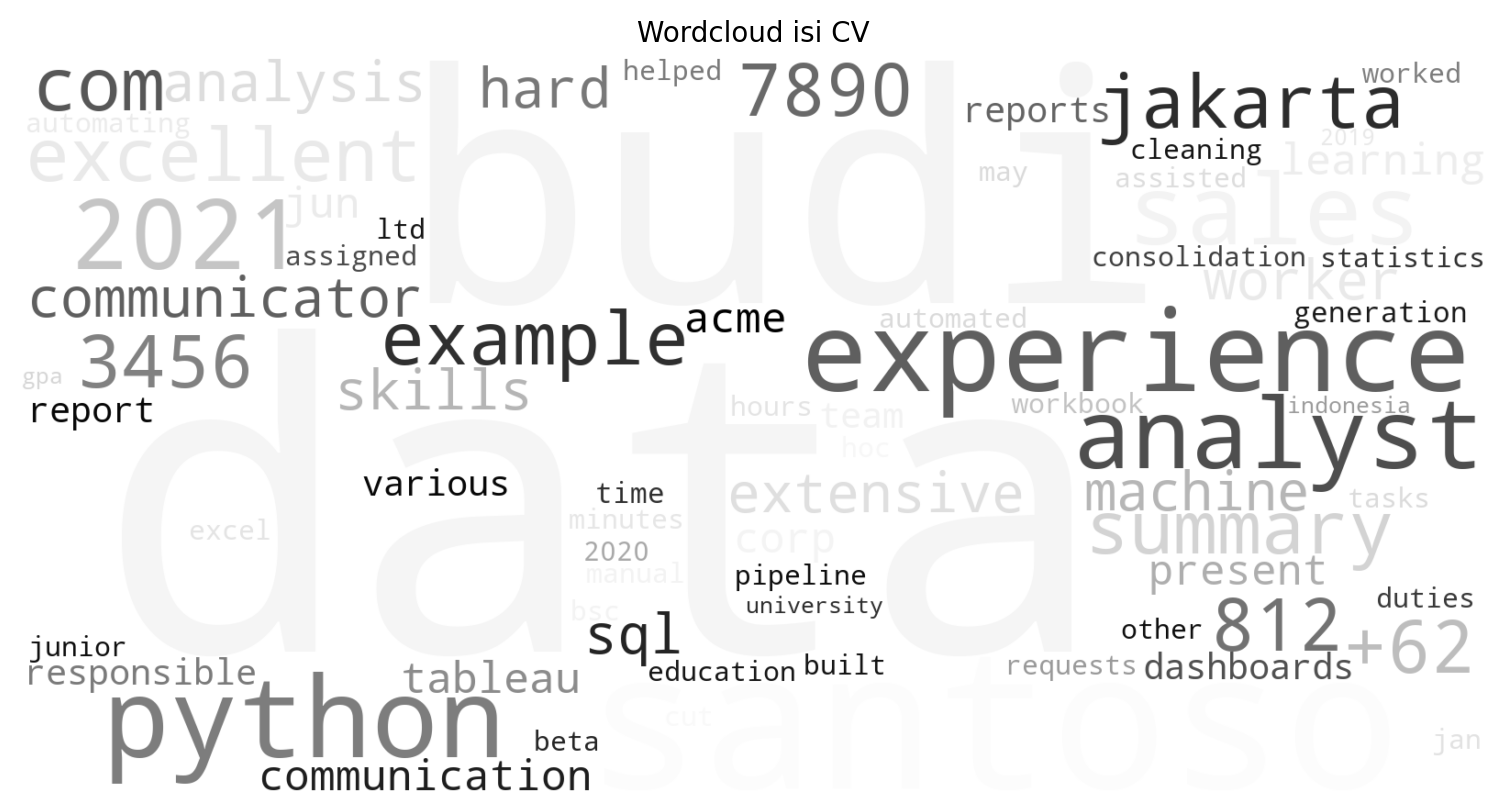
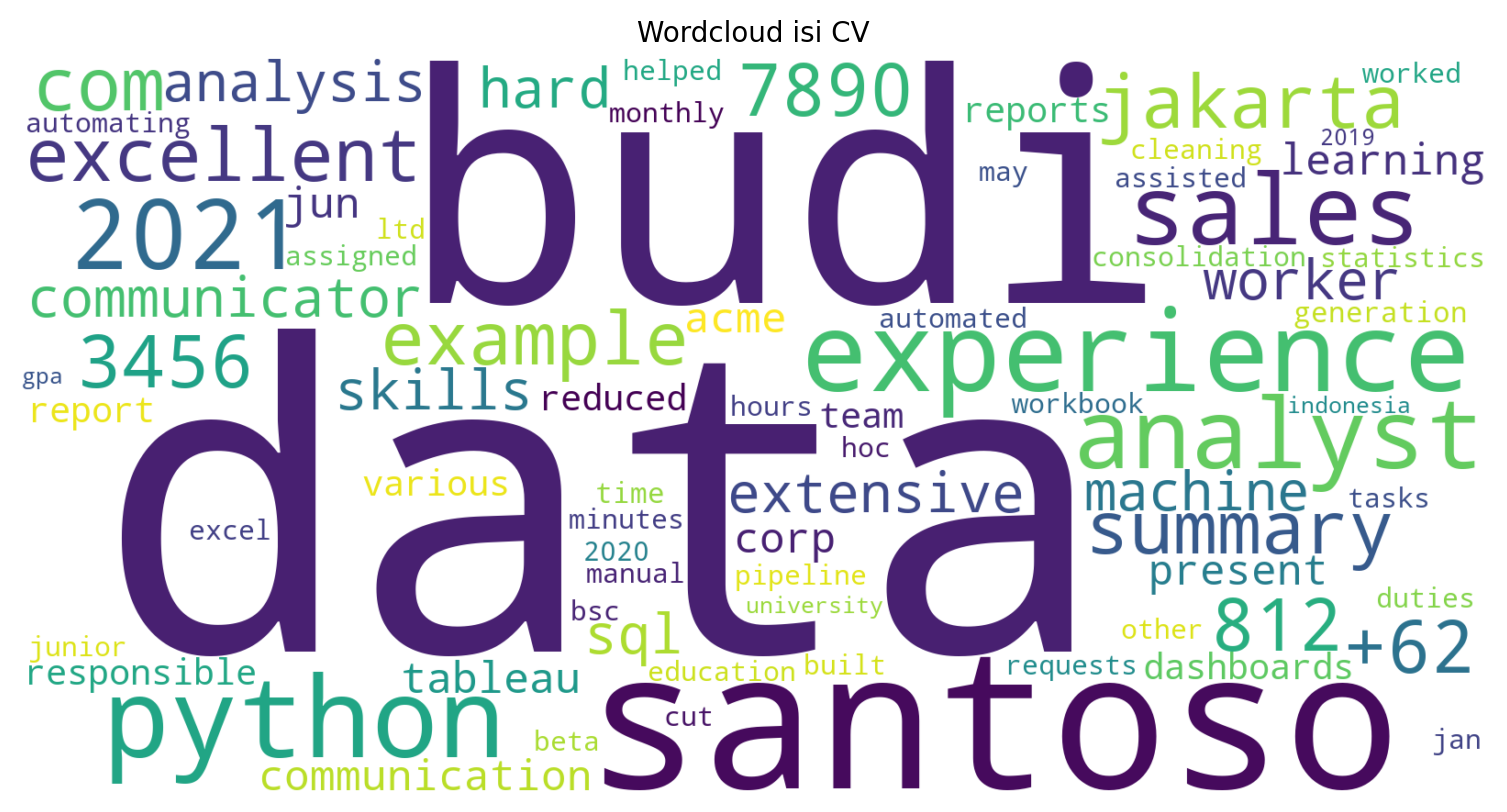
Switch wordcloud figures to color (viridis) per user request
The paper's wordcloud figures may now be colored — the explicit exception to
the no-color rule (text/tables stay black). grayscale=True remains available
in wordcloud_gen; tests verify the default output is colored and the option
still yields pure gray. Figures regenerated in color; the DOCX regeneration
script emits updated captions ("berwarna, seed 42") and its new output is
written to MAKALAH_v2.docx until the user closes the open MAKALAH.docx in
Word (Windows file lock), then renames over it.

🤖 Generated with Codebuff

Changed region(s): [[0.0, 0.0616, 0.998, 0.9852]]

diff --git a/cv_analyzer/eval_harness/make_makalah_docx.py b/cv_analyzer/eval_harness/make_makalah_docx.py
@@ -1,9 +1,10 @@
-"""Menghasilkan MAKALAH.docx — format jurnal Sinta, hitam-putih polos.
+"""Menghasilkan MAKALAH.docx — format jurnal Sinta.
 
 Semua gaya eksplisit: Times New Roman, hitam, tanpa shading/warna pada teks,
-tabel, atau heading. Struktur: Judul -> Penulis -> Abstrak -> Kata Kunci ->
-I-V Bab -> Daftar Pustaka -> Lampiran. Gambar wordcloud disisipkan dari
-data/figures/.
+tabel, atau heading. Pengecualian: gambar wordcloud BERWARNA (kolormap
+viridis) sesuai permintaan — hanya gambar, teks/tabel tetap tanpa warna.
+Struktur: Judul -> Penulis -> Abstrak -> Kata Kunci -> I-V Bab -> Daftar
+Pustaka -> Lampiran. Gambar disisipkan dari data/figures/.
 
 Pakai: .venv/Scripts/python -m cv_analyzer.eval_harness.make_makalah_docx
 """
@@ -173,7 +174,8 @@ def build() -> Path:
             "mencocokkan kalimat kebutuhan dari deskripsi pekerjaan ke butir CV (ambang 0,50, "
             "terkalibrasi empiris) menghasilkan daftar kesenjangan.")
     _p(doc, "C. Wordcloud sebagai Luaran", bold=True, align=WD_ALIGN_PARAGRAPH.LEFT)
-    _p(doc, "Dua visualisasi grayscale (kolormap Greys, seed 42, deterministik) disediakan: "
+    _p(doc, "Dua visualisasi wordcloud (kolormap viridis — pengecualian berwarna untuk wordcloud; "
+            "seed 42, deterministik) disediakan: "
             "wordcloud isi CV dengan frekuensi kata konten setelah penggabungan alias ke bentuk "
             "kanonis (Gambar 1), dan wordcloud pesan temuan yang memperlihatkan tema keluhan "
             "paling sering (Gambar 2). Stopword gabungan EN+ID konsisten dengan modul identifikasi "
@@ -237,11 +239,13 @@ def build() -> Path:
             "contoh; penggabungan alias menyatukan \"js\" dan \"JavaScript\" menjadi satu konsep "
             "sehingga bobot visual mencerminkan konsep, bukan ejaan. Gambar 2 memperlihatkan tema "
             "temuan (duty, achievement, line) yang konsisten dengan fokus evaluasi kualitas "
-            "bahasa. Karena grayscale ber-seed, kedua gambar dapat direproduksi identik.")
+            "bahasa. Karena ber-seed, kedua gambar dapat direproduksi identik; bagian "
+            "non-wordcloud makalah tetap tanpa warna sesuai ketentuan, dengan pengecualian "
+            "berwarna hanya pada gambar wordcloud.")
     _figure(doc, FIGURES_DIR / "wordcloud_cv.png",
-            "Gambar 1. Wordcloud isi CV (grayscale, seed 42)")
+            "Gambar 1. Wordcloud isi CV (berwarna, seed 42)")
     _figure(doc, FIGURES_DIR / "wordcloud_findings.png",
-            "Gambar 2. Wordcloud pesan temuan analisis (grayscale, seed 42)")
+            "Gambar 2. Wordcloud pesan temuan analisis (berwarna, seed 42)")
     _p(doc, "E. Pembatasan", bold=True, align=WD_ALIGN_PARAGRAPH.LEFT)
     _p(doc, "(1) Sanitasi awal memakai pseudo-gold leksikal yang melebih-lebihkan recall; angka "
             "final menunggu anotasi tangan. (2) Gazeteer keterampilan berbias teknis; domain "

diff --git a/cv_analyzer/explain/wordcloud_gen.py b/cv_analyzer/explain/wordcloud_gen.py
@@ -1,8 +1,9 @@
 """Wordcloud generation (luaran makalah): frekuensi kata dari hasil analisis CV.
 
-Dua mode, keduanya hitam-putih (kebutuhan format jurnal: tidak boleh ada
-warna) dan deterministik (seed tetap -> gambar identik antar-run, penting
-untuk reproduksibilitas makalah):
+Dua mode, keduanya deterministik (seed tetap -> gambar identik antar-run,
+penting untuk reproduksibilitas makalah). Default keluaran kini BERWARNA
+(pengecualian yang diminta untuk wordcloud); mode grayscale tetap tersedia
+via ``grayscale=True`` bila diperlukan versi hitam-putih:
 
 1. ``generate_skill_cloud``  — dari gabungan teks CV (bobot = frekuensi kata
    konten; alias skill dipetakan ke nama kanonis sehingga "js" dan
@@ -93,8 +94,13 @@ def _render_cloud(
     width: int = 1600,
     height: int = 800,
     title: str = "",
+    grayscale: bool = False,
 ) -> Path:
-    """Render wordcloud hitam-putih ke PNG via matplotlib. Deterministik."""
+    """Render wordcloud ke PNG via matplotlib. Deterministik.
+
+    Default berwarna (viridis); ``grayscale=True`` memakai colormap Greys
+    untuk versi hitam-putih bila diperlukan.
+    """
     if not frequencies:
         raise ValueError("wordcloud butuh minimal satu kata")
     from wordcloud import WordCloud
@@ -106,7 +112,7 @@ def _render_cloud(
         width=width,
         height=height,
         background_color="white",
-        colormap="Greys",          # grayscale — sesuai ketentuan jurnal tanpa warna
+        colormap="Greys" if grayscale else "viridis",
         prefer_horizontal=1.0,
         random_state=42,           # deterministik
         min_font_size=10,
@@ -127,13 +133,17 @@ def _render_cloud(
     return out_path
 
 
-def generate_skill_cloud(cv_texts: list[str], out_path: str | Path) -> Path:
+def generate_skill_cloud(cv_texts: list[str], out_path: str | Path,
+                         grayscale: bool = False) -> Path:
     """Awan kata dari isi CV (skill & istilah teknis paling sering)."""
     freq = word_frequencies(cv_texts, merge_skill_aliases=True)
-    return _render_cloud(freq, Path(out_path), title="Wordcloud isi CV")
+    return _render_cloud(freq, Path(out_path), title="Wordcloud isi CV",
+                         grayscale=grayscale)
 
 
-def generate_finding_cloud(findings: list[Finding], out_path: str | Path) -> Path:
+def generate_finding_cloud(findings: list[Finding], out_path: str | Path,
+                           grayscale: bool = False) -> Path:
     """Awan kata dari pesan temuan sistem (tema keluhan paling sering)."""
     freq = word_frequencies([f.message for f in findings], merge_skill_aliases=False)
-    return _render_cloud(freq, Path(out_path), title="Wordcloud temuan analisis")
+    return _render_cloud(freq, Path(out_path), title="Wordcloud temuan analisis",
+                         grayscale=grayscale)

diff --git a/tests/test_wordcloud.py b/tests/test_wordcloud.py
@@ -36,8 +36,8 @@ def test_cloud_is_deterministic(tmp_path):
     assert p1.read_bytes() == p2.read_bytes()
 
 
-def test_cloud_grayscale_png(tmp_path):
-    """Output must be a valid PNG; palette should be grayscale (no color)."""
+def test_cloud_default_is_color(tmp_path):
+    """Default output: BERWARNA (pengecualian wordcloud) — valid PNG with color."""
     from PIL import Image
 
     p = tmp_path / "wc.png"
@@ -45,10 +45,22 @@ def test_cloud_grayscale_png(tmp_path):
     img = Image.open(p)
     assert img.format == "PNG"
     rgb = img.convert("RGB")
-    # sample pixels: R==G==B for grayscale rendering
     pixels = list(rgb.getdata())[::997]
     colored = [px for px in pixels if px[0] != px[1] or px[1] != px[2]]
-    assert not colored, "found non-gray pixels in a grayscale-mandated figure"
+    assert colored, "default wordcloud should contain colored pixels"
+
+
+def test_cloud_grayscale_option(tmp_path):
+    """grayscale=True still available for a black-and-white figure."""
+    from PIL import Image
+
+    p = tmp_path / "wc_gray.png"
+    generate_skill_cloud(["Python Python Python SQL Machine Learning dashboards"], p,
+                         grayscale=True)
+    img = Image.open(p).convert("RGB")
+    pixels = list(img.getdata())[::997]
+    colored = [px for px in pixels if px[0] != px[1] or px[1] != px[2]]
+    assert not colored, "grayscale option must produce only gray pixels"
 
 
 def test_finding_cloud(tmp_path):
